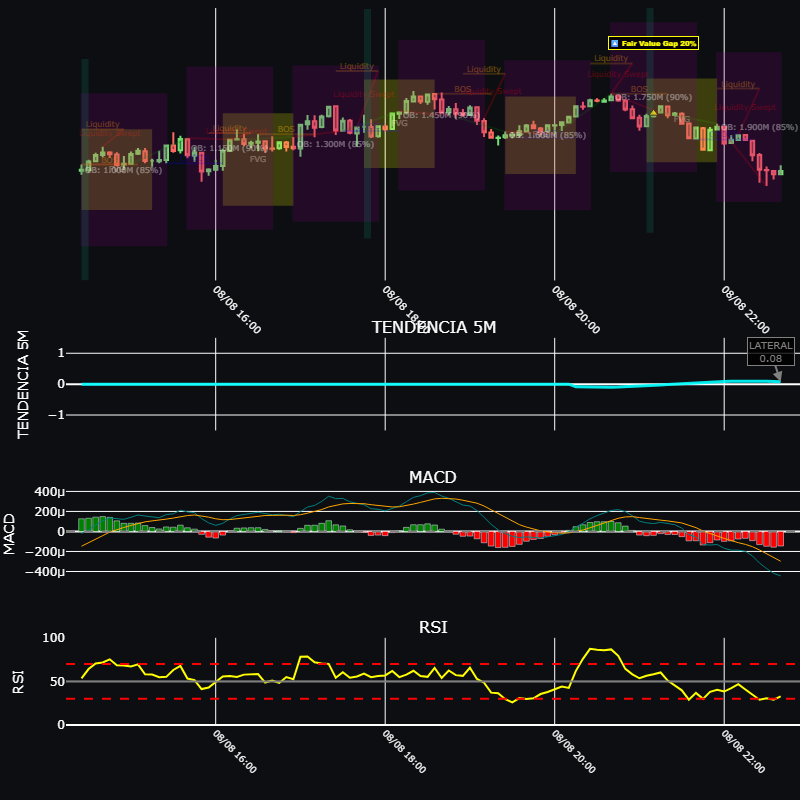
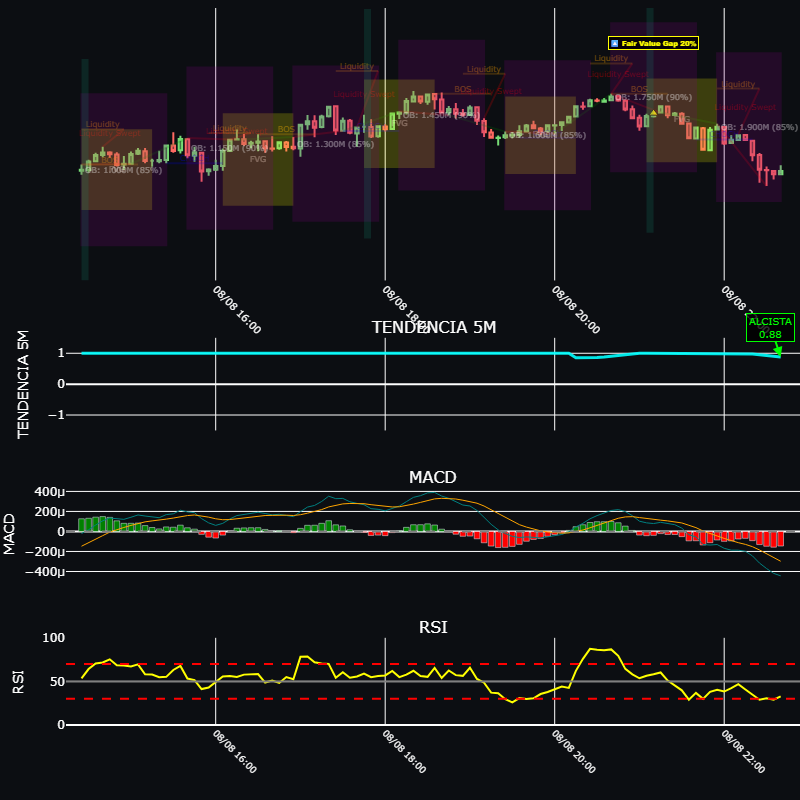
actualizacion
tendencia mejorada

Changed region(s): [[0.0938, 0.375, 1.0, 0.5]]

diff --git a/smartmoneyconcepts/market_analysis_lib.py b/smartmoneyconcepts/market_analysis_lib.py
@@ -122,64 +122,170 @@ class MarketAnalysisLib:
     
     def _detect_trend_structural(self, df):
         """
-        Detectar tendencia usando análisis estructural SMC
-        - Swing highs/lows
-        - Break of Structure (BOS)
-        - Patrones de estructura de mercado
+        Detectar tendencia usando análisis estructural SMC mejorado
+        - Swing highs/lows significativos
+        - Higher Highs (HH) y Higher Lows (HL) para tendencia alcista
+        - Lower Lows (LL) y Lower Highs (LH) para tendencia bajista
+        - Break of Structure (BOS) para confirmación
+        - Change of Character (CHoCH) para cambios de tendencia
         """
+        if len(df) < self.swing_length * 2:
+            # Datos insuficientes
+            return pd.DataFrame({
+                'trend': pd.Series(0, index=df.index),
+                'strength': pd.Series(0, index=df.index),
+                'confidence': pd.Series(0, index=df.index)
+            })
+        
         # Calcular swing highs/lows
         swing_highs_lows = smc.swing_highs_lows(df, swing_length=self.swing_length)
         bos_choch = smc.bos_choch(df, swing_highs_lows)
-        trend_data = smc.trend_indicator(df, swing_highs_lows, lookback_period=self.lookback)
         
         # Inicializar resultados
         trend = pd.Series(0, index=df.index)
         strength = pd.Series(0, index=df.index)
         confidence = pd.Series(0, index=df.index)
         
+        # Analizar cada punto desde swing_length en adelante
         for i in range(self.swing_length, len(df)):
-            # Análisis de BOS
-            bos_value = bos_choch['BOS'].iloc[i]
-            trend_value = trend_data['trend'].iloc[i] if 'trend' in trend_data.columns else 0
+            current_trend = 0
+            current_strength = 0
+            current_confidence = 0
             
-            # Determinar tendencia basada en BOS
+            # 1. ANÁLISIS DE BOS (Break of Structure) - Prioridad máxima
+            bos_value = bos_choch['BOS'].iloc[i]
+            choch_value = bos_choch['CHOCH'].iloc[i]
+            
             if not np.isnan(bos_value) and bos_value != 0:
-                trend.iloc[i] = bos_value
-                strength.iloc[i] = 70  # BOS fuerte
-                confidence.iloc[i] = 80
-            elif not np.isnan(trend_value) and trend_value != 0:
-                trend.iloc[i] = trend_value
-                strength.iloc[i] = 60  # Tendencia estructural
-                confidence.iloc[i] = 70
-            else:
-                # Análisis de swing highs/lows
-                recent_swings = swing_highs_lows.iloc[max(0, i-10):i+1]
-                highs = recent_swings[recent_swings['HighLow'] == 1]
-                lows = recent_swings[recent_swings['HighLow'] == -1]
+                # BOS detectado - confirmación de tendencia
+                current_trend = bos_value
+                current_strength = 80
+                current_confidence = 90
                 
-                if len(highs) >= 2 and len(lows) >= 2:
-                    # Verificar si highs y lows son crecientes/decrecientes
-                    high_values = highs['Level'].values
-                    low_values = lows['Level'].values
+            elif not np.isnan(choch_value) and choch_value != 0:
+                # CHoCH detectado - cambio de tendencia
+                current_trend = choch_value
+                current_strength = 85
+                current_confidence = 85
+                
+            else:
+                # 2. ANÁLISIS DE ESTRUCTURA DE SWING POINTS
+                # Buscar swing points en el lookback period
+                lookback_start = max(0, i - self.lookback)
+                recent_swings = swing_highs_lows.iloc[lookback_start:i+1]
+                
+                # Filtrar swing points válidos
+                valid_swings = recent_swings.dropna(subset=['HighLow', 'Level'])
+                
+                if len(valid_swings) >= 4:  # Necesitamos al menos 4 swing points
+                    # Separar highs y lows
+                    highs = valid_swings[valid_swings['HighLow'] == 1].sort_values('Level')
+                    lows = valid_swings[valid_swings['HighLow'] == -1].sort_values('Level')
                     
-                    if len(high_values) >= 2 and len(low_values) >= 2:
-                        high_trend = np.polyfit(range(len(high_values)), high_values, 1)[0]
-                        low_trend = np.polyfit(range(len(low_values)), low_values, 1)[0]
+                    if len(highs) >= 2 and len(lows) >= 2:
+                        # 3. ANÁLISIS DE TENDENCIA ALCISTA: Higher Highs (HH) + Higher Lows (HL)
+                        high_trend_alcista = self._analyze_higher_highs_lows(highs, lows)
                         
-                        if high_trend > 0 and low_trend > 0:
-                            trend.iloc[i] = 1  # Alcista
-                            strength.iloc[i] = 50
-                            confidence.iloc[i] = 60
-                        elif high_trend < 0 and low_trend < 0:
-                            trend.iloc[i] = -1  # Bajista
-                            strength.iloc[i] = 50
-                            confidence.iloc[i] = 60
+                        # 4. ANÁLISIS DE TENDENCIA BAJISTA: Lower Lows (LL) + Lower Highs (LH)
+                        low_trend_bajista = self._analyze_lower_lows_highs(highs, lows)
+                        
+                        # 5. DETERMINAR TENDENCIA DOMINANTE
+                        if high_trend_alcista['confirmed'] and high_trend_alcista['strength'] > low_trend_bajista['strength']:
+                            current_trend = 1  # Alcista
+                            current_strength = high_trend_alcista['strength']
+                            current_confidence = 75
+                            
+                        elif low_trend_bajista['confirmed'] and low_trend_bajista['strength'] > high_trend_alcista['strength']:
+                            current_trend = -1  # Bajista
+                            current_strength = low_trend_bajista['strength']
+                            current_confidence = 75
+                            
+                        else:
+                            # 6. ANÁLISIS DE RANGO/CONSOLIDACIÓN
+                            range_analysis = self._analyze_range_consolidation(valid_swings, df.iloc[lookback_start:i+1])
+                            if range_analysis['is_range']:
+                                current_trend = 0  # Lateral/Rango
+                                current_strength = range_analysis['strength']
+                                current_confidence = 65
+            
+            # Asignar valores a las series
+            trend.iloc[i] = current_trend
+            strength.iloc[i] = current_strength
+            confidence.iloc[i] = current_confidence
         
         return pd.DataFrame({
             'trend': trend,
             'strength': strength,
             'confidence': confidence
         })
+    
+    def _analyze_higher_highs_lows(self, highs, lows):
+        """
+        Analizar si hay Higher Highs (HH) y Higher Lows (HL) para tendencia alcista
+        """
+        if len(highs) < 2 or len(lows) < 2:
+            return {'confirmed': False, 'strength': 0}
+        
+        # Verificar Higher Highs (HH)
+        high_values = highs['Level'].values
+        hh_confirmed = high_values[-1] > high_values[-2]
+        
+        # Verificar Higher Lows (HL)
+        low_values = lows['Level'].values
+        hl_confirmed = low_values[-1] > low_values[-2]
+        
+        # Calcular fuerza basada en la pendiente
+        if hh_confirmed and hl_confirmed:
+            high_slope = (high_values[-1] - high_values[0]) / (len(high_values) - 1)
+            low_slope = (low_values[-1] - low_values[0]) / (len(low_values) - 1)
+            strength = min(80, (high_slope + low_slope) * 1000)  # Escalar la pendiente
+            return {'confirmed': True, 'strength': strength}
+        
+        return {'confirmed': False, 'strength': 0}
+    
+    def _analyze_lower_lows_highs(self, highs, lows):
+        """
+        Analizar si hay Lower Lows (LL) y Lower Highs (LH) para tendencia bajista
+        """
+        if len(highs) < 2 or len(lows) < 2:
+            return {'confirmed': False, 'strength': 0}
+        
+        # Verificar Lower Lows (LL)
+        low_values = lows['Level'].values
+        ll_confirmed = low_values[-1] < low_values[-2]
+        
+        # Verificar Lower Highs (LH)
+        high_values = highs['Level'].values
+        lh_confirmed = high_values[-1] < high_values[-2]
+        
+        # Calcular fuerza basada en la pendiente
+        if ll_confirmed and lh_confirmed:
+            high_slope = (high_values[-1] - high_values[0]) / (len(high_values) - 1)
+            low_slope = (low_values[-1] - low_values[0]) / (len(low_values) - 1)
+            strength = min(80, abs(high_slope + low_slope) * 1000)  # Escalar la pendiente
+            return {'confirmed': True, 'strength': strength}
+        
+        return {'confirmed': False, 'strength': 0}
+    
+    def _analyze_range_consolidation(self, swings, price_data):
+        """
+        Analizar si el mercado está en rango/consolidación
+        """
+        if len(swings) < 3:
+            return {'is_range': False, 'strength': 0}
+        
+        # Calcular volatilidad del rango
+        price_range = price_data['high'].max() - price_data['low'].min()
+        avg_price = price_data['close'].mean()
+        volatility = price_range / avg_price
+        
+        # Si la volatilidad es baja, es probable un rango
+        if volatility < 0.02:  # Menos del 2%
+            # Calcular fuerza basada en la estabilidad
+            strength = min(60, (0.02 - volatility) * 3000)
+            return {'is_range': True, 'strength': strength}
+        
+        return {'is_range': False, 'strength': 0}
     
     def _detect_trend_technical(self, df):
         """

diff --git a/tests/smart01.py b/tests/smart01.py
@@ -1032,7 +1032,7 @@ for pos in tqdm(range(start_pos, len(df_5m)), desc="Generando últimos frames"):
             confidence = current_confidence / 100.0  # Normalizar a 0-1
             
             print(f"   🔍 SMC detectó: Tendencia={base_trend}, Fuerza={current_strength}, Confianza={current_confidence:.1f}%")
-            print(f"   📊 Analizando 500 velas para contexto completo")
+            print(f"   📊 Analizando 500 velas con método 'structural' (HH+HL, LL+LH, BOS, CHoCH)")
             
         except Exception as e:
             print(f"   ⚠ Error en SMC, usando análisis simple: {e}")
